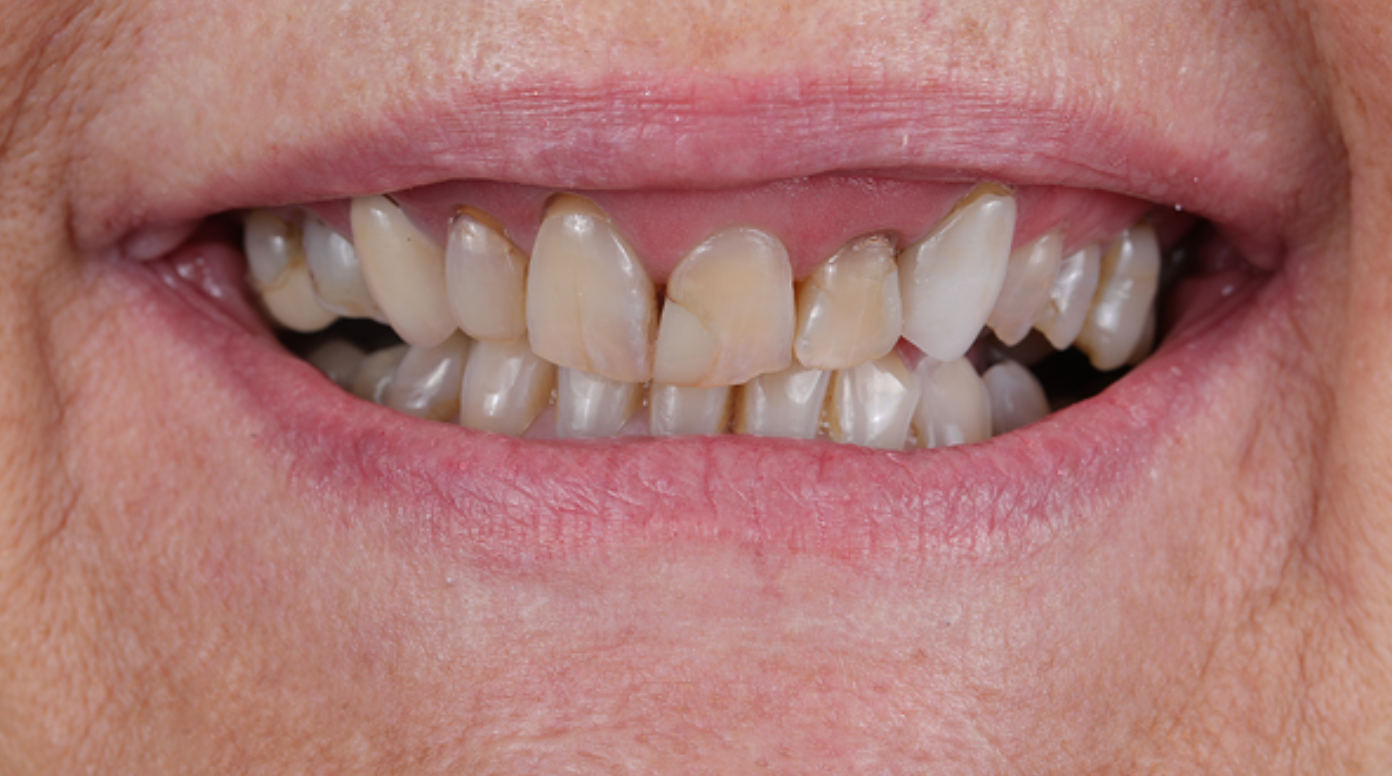
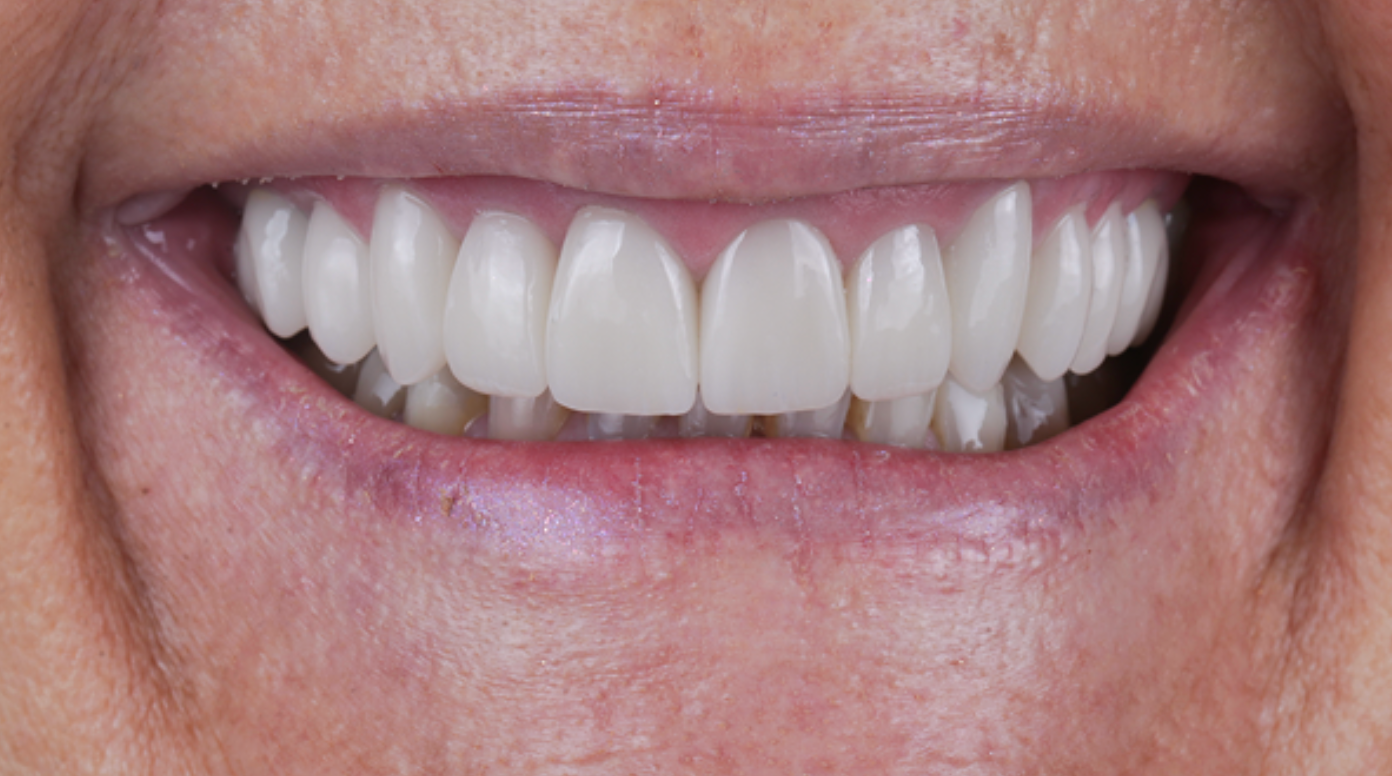
Corrige fotos antes/después invertidas y agrega retrato real de la Dra. Paola
El prototipo original tenía ba-before.png/ba-after.png con el contenido
cambiado (before mostraba los dientes ya tratados). Se corrige el swap y se
reemplaza el placeholder de "Quién soy" por su foto real encontrada en la
carpeta del sitio.

diff --git a/src/pages/SitioPaolaCardenas.tsx b/src/pages/SitioPaolaCardenas.tsx
@@ -9,6 +9,7 @@ const heroImg = "/paola-hero.png";
 const ctaImg = "/paola-cta.png";
 const beforeImg = "/paola-before.png";
 const afterImg = "/paola-after.png";
+const portraitImg = "/paola-portrait.jpg";
 
 const GOOGLE_REVIEWS_URL = "https://www.google.com/search?q=dra+paola+cardenas+fica";
 const WHATSAPP_NUMBER = "56971252179";
@@ -370,8 +371,8 @@ function QuienSoy() {
   return (
     <section id="dra" ref={ref} style={{ background: "#2E3135", color: "#F4F2EE", padding: "clamp(100px,15vh,200px) clamp(20px,5vw,72px)" }}>
       <div className="mx-auto max-w-7xl grid lg:grid-cols-12 items-start gap-10">
-        <div className="lg:col-span-5 rounded-2xl overflow-hidden flex items-center justify-center" style={{ aspectRatio: "4/5", background: "linear-gradient(160deg, #3a3d42, #22242a)" }}>
-          <span className="pc-serif" style={{ fontSize: "clamp(60px,8vw,110px)", color: "rgba(244,242,238,0.18)" }}>PC</span>
+        <div className="lg:col-span-5 rounded-2xl overflow-hidden" style={{ aspectRatio: "4/5" }}>
+          <img src={portraitImg} alt="Dra. Paola Cárdenas Fica" className="w-full h-full object-cover" loading="lazy" />
         </div>
         <div className="lg:col-span-7">
           <p style={{ color: "#B89B6A", fontSize: "clamp(14px,1.15vw,18px)", fontWeight: 700, letterSpacing: "0.26em", textTransform: "uppercase", marginBottom: 30 }}>Quién soy</p>
